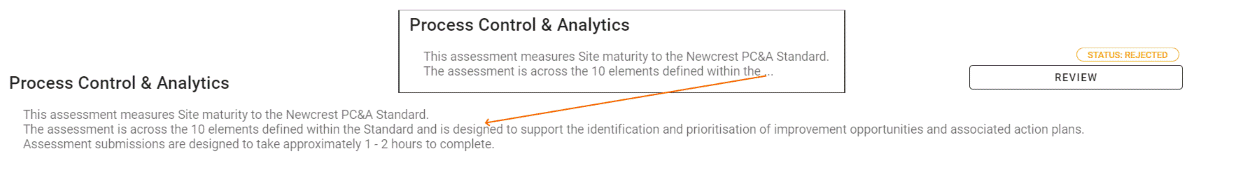
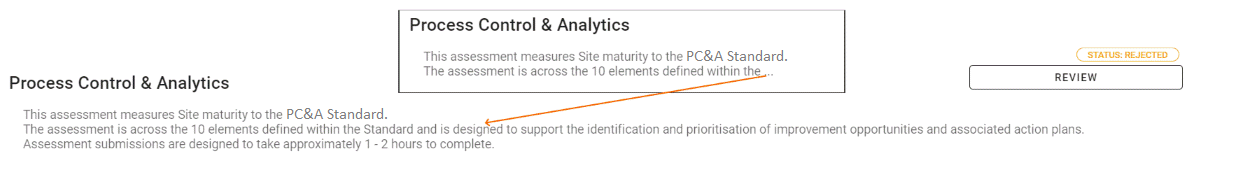
removed reference to company name

Changed region(s): [[0.5543, 0.2857, 0.6775, 0.3714], [0.2156, 0.6286, 0.3695, 0.6857]]

diff --git a/docs/jobs/completing-an-assessment.md b/docs/jobs/completing-an-assessment.md
@@ -39,7 +39,7 @@ If you answer **Yes** to a question it is recommended that you also provide **ev
 
 If you answer **No** to a question it is recommended that you create an **action** to indicate how this situation will be resolved in the future.
 
-See below the icons available for each question that allows you to add Comments, Evidence and Actions respectively. (the final icon indicates areas are active on this submission, see [Areas](/concepts/areas.html))
+See below the icons available for each question that allows you to add Comments, Evidence and Actions respectively. (The final icon indicates areas are active on this submission, see [Areas](/concepts/areas.html).)
 ![Image](../assets/screenshots/persons/aecScreens.png)
 
 Click on "NEXT" to keep going with the submission or "EXIT" to return to the Assessment summary page.
